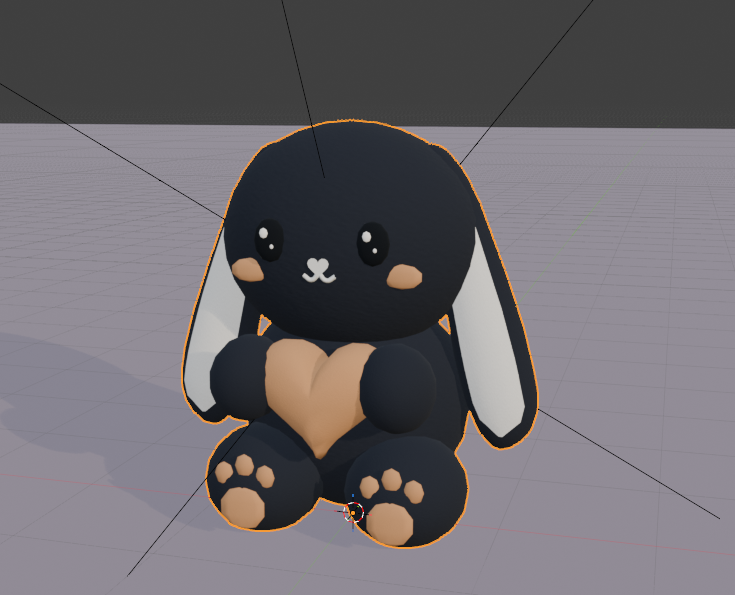
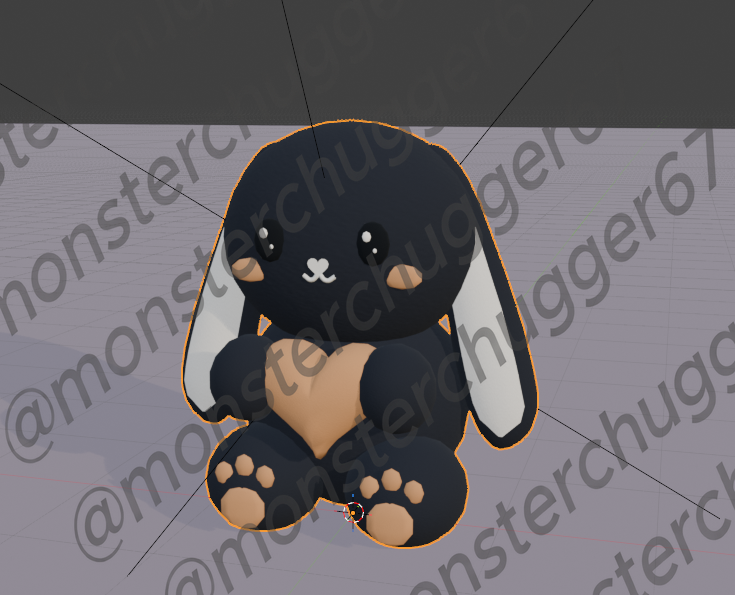
Bake watermark into model images, block right-click drag copy

diff --git a/cutesy.html b/cutesy.html
@@ -30,6 +30,7 @@ section{margin-top:48px}
 .model a.img-link img.wm{position:absolute;inset:0;width:100%;height:100%;object-fit:cover;pointer-events:none;aspect-ratio:auto;background:transparent}
 .model span{display:block;padding:10px 12px;font-size:13.5px;color:var(--mut)}
 .model span b{color:var(--fg)}
+.model img,.full-wrap img{-webkit-user-drag:none;user-select:none;-webkit-user-select:none}
 .lightbox{display:none;position:fixed;inset:0;background:rgba(0,0,0,.92);padding:24px;z-index:100;text-align:center;overflow:auto}
 .lightbox:target{display:block}
 .lightbox img{max-width:94vw;max-height:82vh;margin:16px auto;display:block;background:#000}
@@ -56,62 +57,62 @@ footer{margin-top:64px;padding-top:20px;border-top:1px solid var(--line);color:v
 
 <section>
 <div class="model-grid">
-<div class="model"><a class="img-link" href="#cutesy-bunny-black-full"><img src="models/cutesy-bunny-black.png" alt="Black bunny holding heart 3D model" loading="lazy"><img class="wm" src="models/watermark.png" alt=""></a><span><b>Black Bunny</b> under 2.5k tris</span></div>
-<div class="model"><a class="img-link" href="#cutesy-bunny-white-full"><img src="models/cutesy-bunny-white.png" alt="White bunny holding heart 3D model" loading="lazy"><img class="wm" src="models/watermark.png" alt=""></a><span><b>White Bunny</b> under 2.5k tris</span></div>
-<div class="model"><a class="img-link" href="#cutesy-bunny-black-back-full"><img src="models/cutesy-bunny-black-back.png" alt="Black bunny jetpack 3D model" loading="lazy"><img class="wm" src="models/watermark.png" alt=""></a><span><b>Black Jetpack</b> under 2.5k tris</span></div>
-<div class="model"><a class="img-link" href="#cutesy-bunny-white-back-full"><img src="models/cutesy-bunny-white-back.png" alt="White bunny jetpack 3D model" loading="lazy"><img class="wm" src="models/watermark.png" alt=""></a><span><b>White Jetpack</b> under 2.5k tris</span></div>
-<div class="model"><a class="img-link" href="#cutesy-potion-full"><img src="models/cutesy-potion.png" alt="Bunny potion bottle 3D model" loading="lazy"><img class="wm" src="models/watermark.png" alt=""></a><span><b>Bunny Potion</b> under 2.5k tris</span></div>
-<div class="model"><a class="img-link" href="#cutesy-tips-jar-full"><img src="models/cutesy-tips-jar.png" alt="Bunny tips jar 3D model" loading="lazy"><img class="wm" src="models/watermark.png" alt=""></a><span><b>Tips Jar</b> under 2.5k tris</span></div>
-<div class="model"><a class="img-link" href="#cutesy-bouquet-full"><img src="models/cutesy-bouquet.png" alt="Flower bouquet 3D model" loading="lazy"><img class="wm" src="models/watermark.png" alt=""></a><span><b>Bouquet</b> under 2.5k tris</span></div>
-<div class="model"><a class="img-link" href="#cutesy-bunny-loaf-full"><img src="models/cutesy-bunny-loaf.png" alt="Bunny hoverboard 3D model" loading="lazy"><img class="wm" src="models/watermark.png" alt=""></a><span><b>Bunny Hoverboard</b> under 2.5k tris</span></div>
+<div class="model"><a class="img-link" href="#cutesy-bunny-black-full"><img src="models/cutesy-bunny-black.png" alt="Black bunny holding heart 3D model" loading="lazy"></a><span><b>Black Bunny</b> under 2.5k tris</span></div>
+<div class="model"><a class="img-link" href="#cutesy-bunny-white-full"><img src="models/cutesy-bunny-white.png" alt="White bunny holding heart 3D model" loading="lazy"></a><span><b>White Bunny</b> under 2.5k tris</span></div>
+<div class="model"><a class="img-link" href="#cutesy-bunny-black-back-full"><img src="models/cutesy-bunny-black-back.png" alt="Black bunny jetpack 3D model" loading="lazy"></a><span><b>Black Jetpack</b> under 2.5k tris</span></div>
+<div class="model"><a class="img-link" href="#cutesy-bunny-white-back-full"><img src="models/cutesy-bunny-white-back.png" alt="White bunny jetpack 3D model" loading="lazy"></a><span><b>White Jetpack</b> under 2.5k tris</span></div>
+<div class="model"><a class="img-link" href="#cutesy-potion-full"><img src="models/cutesy-potion.png" alt="Bunny potion bottle 3D model" loading="lazy"></a><span><b>Bunny Potion</b> under 2.5k tris</span></div>
+<div class="model"><a class="img-link" href="#cutesy-tips-jar-full"><img src="models/cutesy-tips-jar.png" alt="Bunny tips jar 3D model" loading="lazy"></a><span><b>Tips Jar</b> under 2.5k tris</span></div>
+<div class="model"><a class="img-link" href="#cutesy-bouquet-full"><img src="models/cutesy-bouquet.png" alt="Flower bouquet 3D model" loading="lazy"></a><span><b>Bouquet</b> under 2.5k tris</span></div>
+<div class="model"><a class="img-link" href="#cutesy-bunny-loaf-full"><img src="models/cutesy-bunny-loaf.png" alt="Bunny hoverboard 3D model" loading="lazy"></a><span><b>Bunny Hoverboard</b> under 2.5k tris</span></div>
 </div>
 </section>
 
 <div id="cutesy-bunny-black-full" class="lightbox">
 <a class="close" href="#">X close</a>
-<div class="full-wrap"><img src="models/cutesy-bunny-black.png" alt="Black bunny holding heart full version"><img class="wm" src="models/watermark.png" alt=""></div>
+<div class="full-wrap"><img src="models/cutesy-bunny-black.png" alt="Black bunny holding heart full version"></div>
 <p><b>Black Bunny</b> under 2.5k tris &nbsp; <a href="models/cutesy-bunny-black.png" target="_blank">open full</a></p>
 </div>
 
 <div id="cutesy-bunny-white-full" class="lightbox">
 <a class="close" href="#">X close</a>
-<div class="full-wrap"><img src="models/cutesy-bunny-white.png" alt="White bunny holding heart full version"><img class="wm" src="models/watermark.png" alt=""></div>
+<div class="full-wrap"><img src="models/cutesy-bunny-white.png" alt="White bunny holding heart full version"></div>
 <p><b>White Bunny</b> under 2.5k tris &nbsp; <a href="models/cutesy-bunny-white.png" target="_blank">open full</a></p>
 </div>
 
 <div id="cutesy-bunny-black-back-full" class="lightbox">
 <a class="close" href="#">X close</a>
-<div class="full-wrap"><img src="models/cutesy-bunny-black-back.png" alt="Black bunny jetpack full version"><img class="wm" src="models/watermark.png" alt=""></div>
+<div class="full-wrap"><img src="models/cutesy-bunny-black-back.png" alt="Black bunny jetpack full version"></div>
 <p><b>Black Jetpack</b> under 2.5k tris &nbsp; <a href="models/cutesy-bunny-black-back.png" target="_blank">open full</a></p>
 </div>
 
 <div id="cutesy-bunny-white-back-full" class="lightbox">
 <a class="close" href="#">X close</a>
-<div class="full-wrap"><img src="models/cutesy-bunny-white-back.png" alt="White bunny jetpack full version"><img class="wm" src="models/watermark.png" alt=""></div>
+<div class="full-wrap"><img src="models/cutesy-bunny-white-back.png" alt="White bunny jetpack full version"></div>
 <p><b>White Jetpack</b> under 2.5k tris &nbsp; <a href="models/cutesy-bunny-white-back.png" target="_blank">open full</a></p>
 </div>
 
 <div id="cutesy-potion-full" class="lightbox">
 <a class="close" href="#">X close</a>
-<div class="full-wrap"><img src="models/cutesy-potion.png" alt="Bunny potion bottle full version"><img class="wm" src="models/watermark.png" alt=""></div>
+<div class="full-wrap"><img src="models/cutesy-potion.png" alt="Bunny potion bottle full version"></div>
 <p><b>Bunny Potion</b> under 2.5k tris &nbsp; <a href="models/cutesy-potion.png" target="_blank">open full</a></p>
 </div>
 
 <div id="cutesy-tips-jar-full" class="lightbox">
 <a class="close" href="#">X close</a>
-<div class="full-wrap"><img src="models/cutesy-tips-jar.png" alt="Bunny tips jar full version"><img class="wm" src="models/watermark.png" alt=""></div>
+<div class="full-wrap"><img src="models/cutesy-tips-jar.png" alt="Bunny tips jar full version"></div>
 <p><b>Tips Jar</b> under 2.5k tris &nbsp; <a href="models/cutesy-tips-jar.png" target="_blank">open full</a></p>
 </div>
 
 <div id="cutesy-bouquet-full" class="lightbox">
 <a class="close" href="#">X close</a>
-<div class="full-wrap"><img src="models/cutesy-bouquet.png" alt="Flower bouquet full version"><img class="wm" src="models/watermark.png" alt=""></div>
+<div class="full-wrap"><img src="models/cutesy-bouquet.png" alt="Flower bouquet full version"></div>
 <p><b>Bouquet</b> under 2.5k tris &nbsp; <a href="models/cutesy-bouquet.png" target="_blank">open full</a></p>
 </div>
 
 <div id="cutesy-bunny-loaf-full" class="lightbox">
 <a class="close" href="#">X close</a>
-<div class="full-wrap"><img src="models/cutesy-bunny-loaf.png" alt="Bunny hoverboard full version"><img class="wm" src="models/watermark.png" alt=""></div>
+<div class="full-wrap"><img src="models/cutesy-bunny-loaf.png" alt="Bunny hoverboard full version"></div>
 <p><b>Bunny Hoverboard</b> under 2.5k tris &nbsp; <a href="models/cutesy-bunny-loaf.png" target="_blank">open full</a></p>
 </div>
 
@@ -121,6 +122,8 @@ footer{margin-top:64px;padding-top:20px;border-top:1px solid var(--line);color:v
 <script>
 function goTop(){window.scrollTo({top:0,behavior:'smooth'});}
 window.addEventListener('scroll',function(){var b=document.getElementById('top');if(b)b.classList.toggle('show',window.scrollY>400);},{passive:true});
+document.querySelectorAll('.model img,.full-wrap img').forEach(function(img){img.setAttribute('draggable','false');img.addEventListener('dragstart',function(e){e.preventDefault();});img.addEventListener('contextmenu',function(e){e.preventDefault();});});
+document.addEventListener('contextmenu',function(e){if(e.target&&e.target.tagName==='IMG')e.preventDefault();});
 </script>
 </body>
 </html>

diff --git a/modeling.html b/modeling.html
@@ -31,6 +31,7 @@ section{margin-top:48px}
 .model .soon{aspect-ratio:1/1;display:grid;place-items:center;background:var(--soft);color:var(--mut);font-family:ui-monospace,Menlo,monospace;font-size:13px;border-bottom:1px solid var(--line)}
 .model span{display:block;padding:10px 12px;font-size:13.5px;color:var(--mut)}
 .model span b{color:var(--fg)}
+.model img,.full-wrap img{-webkit-user-drag:none;user-select:none;-webkit-user-select:none}
 .lightbox{display:none;position:fixed;inset:0;background:rgba(0,0,0,.92);padding:24px;z-index:100;text-align:center;overflow:auto}
 .lightbox:target{display:block}
 .lightbox img{max-width:94vw;max-height:82vh;margin:16px auto;display:block;background:#000}
@@ -57,8 +58,8 @@ footer{margin-top:64px;padding-top:20px;border-top:1px solid var(--line);color:v
 
 <section>
 <div class="model-grid">
-<div class="model"><a class="img-link" href="#katana-full"><img src="models/katana.png" alt="Katana 3D model" loading="lazy"><img class="wm" src="models/watermark.png" alt=""></a><span><b>Katana</b> 6.5k tris</span></div>
-<div class="model"><a class="img-link" href="cutesy.html"><img src="models/cutesy-bouquet.png" alt="Cutesy Collection bouquet preview" loading="lazy"><img class="wm" src="models/watermark.png" alt=""></a><span><b>Cutesy Collection</b> 8 models, most under 2.5k tris</span></div>
+<div class="model"><a class="img-link" href="#katana-full"><img src="models/katana.png" alt="Katana 3D model" loading="lazy"></a><span><b>Katana</b> 6.5k tris</span></div>
+<div class="model"><a class="img-link" href="cutesy.html"><img src="models/cutesy-bouquet.png" alt="Cutesy Collection bouquet preview" loading="lazy"></a><span><b>Cutesy Collection</b> 8 models, most under 2.5k tris</span></div>
 <div class="model"><div class="soon">soon</div><span><b>Empty</b> coming soon</span></div>
 <div class="model"><div class="soon">soon</div><span><b>Empty</b> coming soon</span></div>
 <div class="model"><div class="soon">soon</div><span><b>Empty</b> coming soon</span></div>
@@ -74,7 +75,7 @@ footer{margin-top:64px;padding-top:20px;border-top:1px solid var(--line);color:v
 
 <div id="katana-full" class="lightbox">
 <a class="close" href="#">X close</a>
-<div class="full-wrap"><img src="models/katana.png" alt="Katana 3D model full version"><img class="wm" src="models/watermark.png" alt=""></div>
+<div class="full-wrap"><img src="models/katana.png" alt="Katana 3D model full version"></div>
 <p><b>Katana</b> 6.5k tris &nbsp; <a href="models/katana.png" target="_blank">open full</a></p>
 </div>
 
@@ -84,6 +85,8 @@ footer{margin-top:64px;padding-top:20px;border-top:1px solid var(--line);color:v
 <script>
 function goTop(){window.scrollTo({top:0,behavior:'smooth'});}
 window.addEventListener('scroll',function(){var b=document.getElementById('top');if(b)b.classList.toggle('show',window.scrollY>400);},{passive:true});
+document.querySelectorAll('.model img,.full-wrap img').forEach(function(img){img.setAttribute('draggable','false');img.addEventListener('dragstart',function(e){e.preventDefault();});img.addEventListener('contextmenu',function(e){e.preventDefault();});});
+document.addEventListener('contextmenu',function(e){if(e.target&&e.target.tagName==='IMG')e.preventDefault();});
 </script>
 </body>
 </html>

diff --git a/experience.html b/experience.html
@@ -38,6 +38,7 @@ video{width:100%;height:auto;display:block;background:#000}
 .model .soon{aspect-ratio:1/1;display:grid;place-items:center;background:var(--soft);color:var(--mut);font-family:ui-monospace,Menlo,monospace;font-size:13px;border-bottom:1px solid var(--line)}
 .model span{display:block;padding:10px 12px;font-size:13.5px;color:var(--mut)}
 .model span b{color:var(--fg)}
+.model img{-webkit-user-drag:none;user-select:none;-webkit-user-select:none}
 .btn{display:inline-block;background:var(--fg);color:var(--bg);padding:12px 22px;border-radius:0;font-size:14.5px;font-weight:650;text-decoration:none;border:1px solid var(--fg)}
 .sub{color:var(--mut);max-width:620px}
 section{margin-top:56px}
@@ -80,8 +81,8 @@ footer{margin-top:64px;padding-top:20px;border-top:1px solid var(--line);color:v
 <h2>Modeling</h2>
 <p>Game-ready models. Clean topology, optimized for Roblox.</p>
 <div class="model-grid">
-<div class="model"><a class="img-link" href="modeling.html#katana-full"><img src="models/katana.png" alt="Katana 3D model" loading="lazy"><img class="wm" src="models/watermark.png" alt=""></a><span><b>Katana</b> 6.5k tris</span></div>
-<div class="model"><a class="img-link" href="cutesy.html"><img src="models/cutesy-bouquet.png" alt="Cutesy Collection bouquet preview" loading="lazy"><img class="wm" src="models/watermark.png" alt=""></a><span><b>Cutesy Collection</b> 8 models, most under 2.5k tris</span></div>
+<div class="model"><a class="img-link" href="modeling.html#katana-full"><img src="models/katana.png" alt="Katana 3D model" loading="lazy"></a><span><b>Katana</b> 6.5k tris</span></div>
+<div class="model"><a class="img-link" href="cutesy.html"><img src="models/cutesy-bouquet.png" alt="Cutesy Collection bouquet preview" loading="lazy"></a><span><b>Cutesy Collection</b> 8 models, most under 2.5k tris</span></div>
 </div>
 <p><a class="btn" href="modeling.html">VIEW ALL MODELS</a></p>
 </section>
@@ -118,6 +119,8 @@ footer{margin-top:64px;padding-top:20px;border-top:1px solid var(--line);color:v
 <script>
 function goTop(){window.scrollTo({top:0,behavior:'smooth'});}
 window.addEventListener('scroll',function(){var b=document.getElementById('top');if(b)b.classList.toggle('show',window.scrollY>400);},{passive:true});
+document.querySelectorAll('.model img').forEach(function(img){img.setAttribute('draggable','false');img.addEventListener('dragstart',function(e){e.preventDefault();});img.addEventListener('contextmenu',function(e){e.preventDefault();});});
+document.addEventListener('contextmenu',function(e){if(e.target&&e.target.tagName==='IMG')e.preventDefault();});
 </script>
 </body>
 </html>
